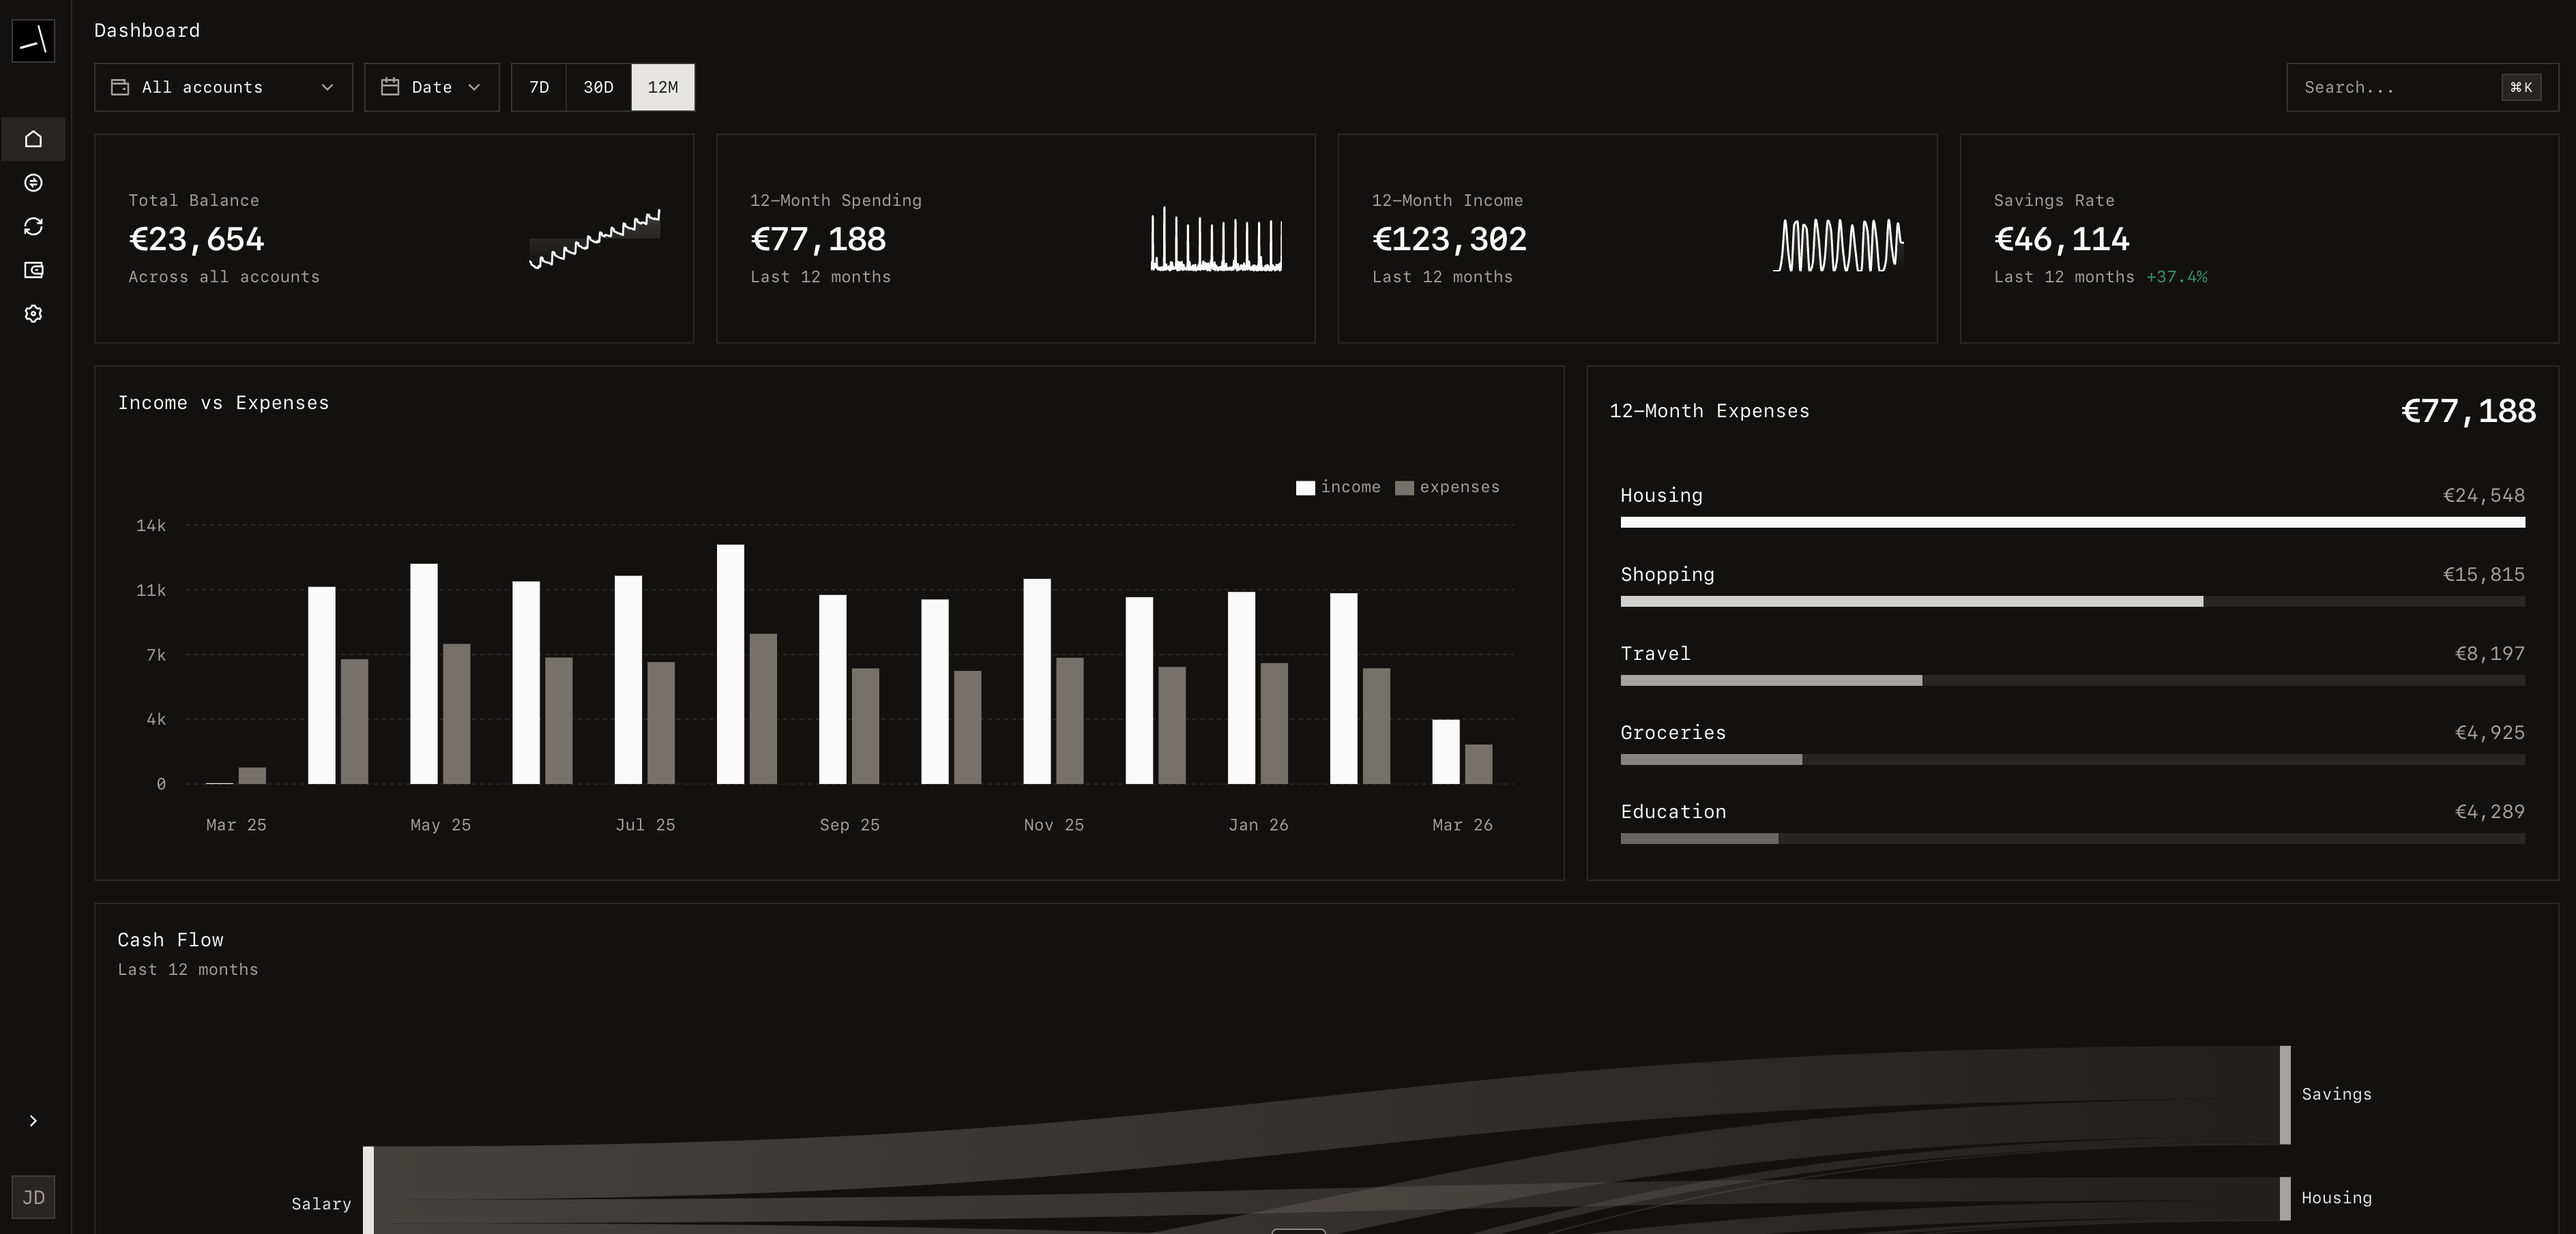
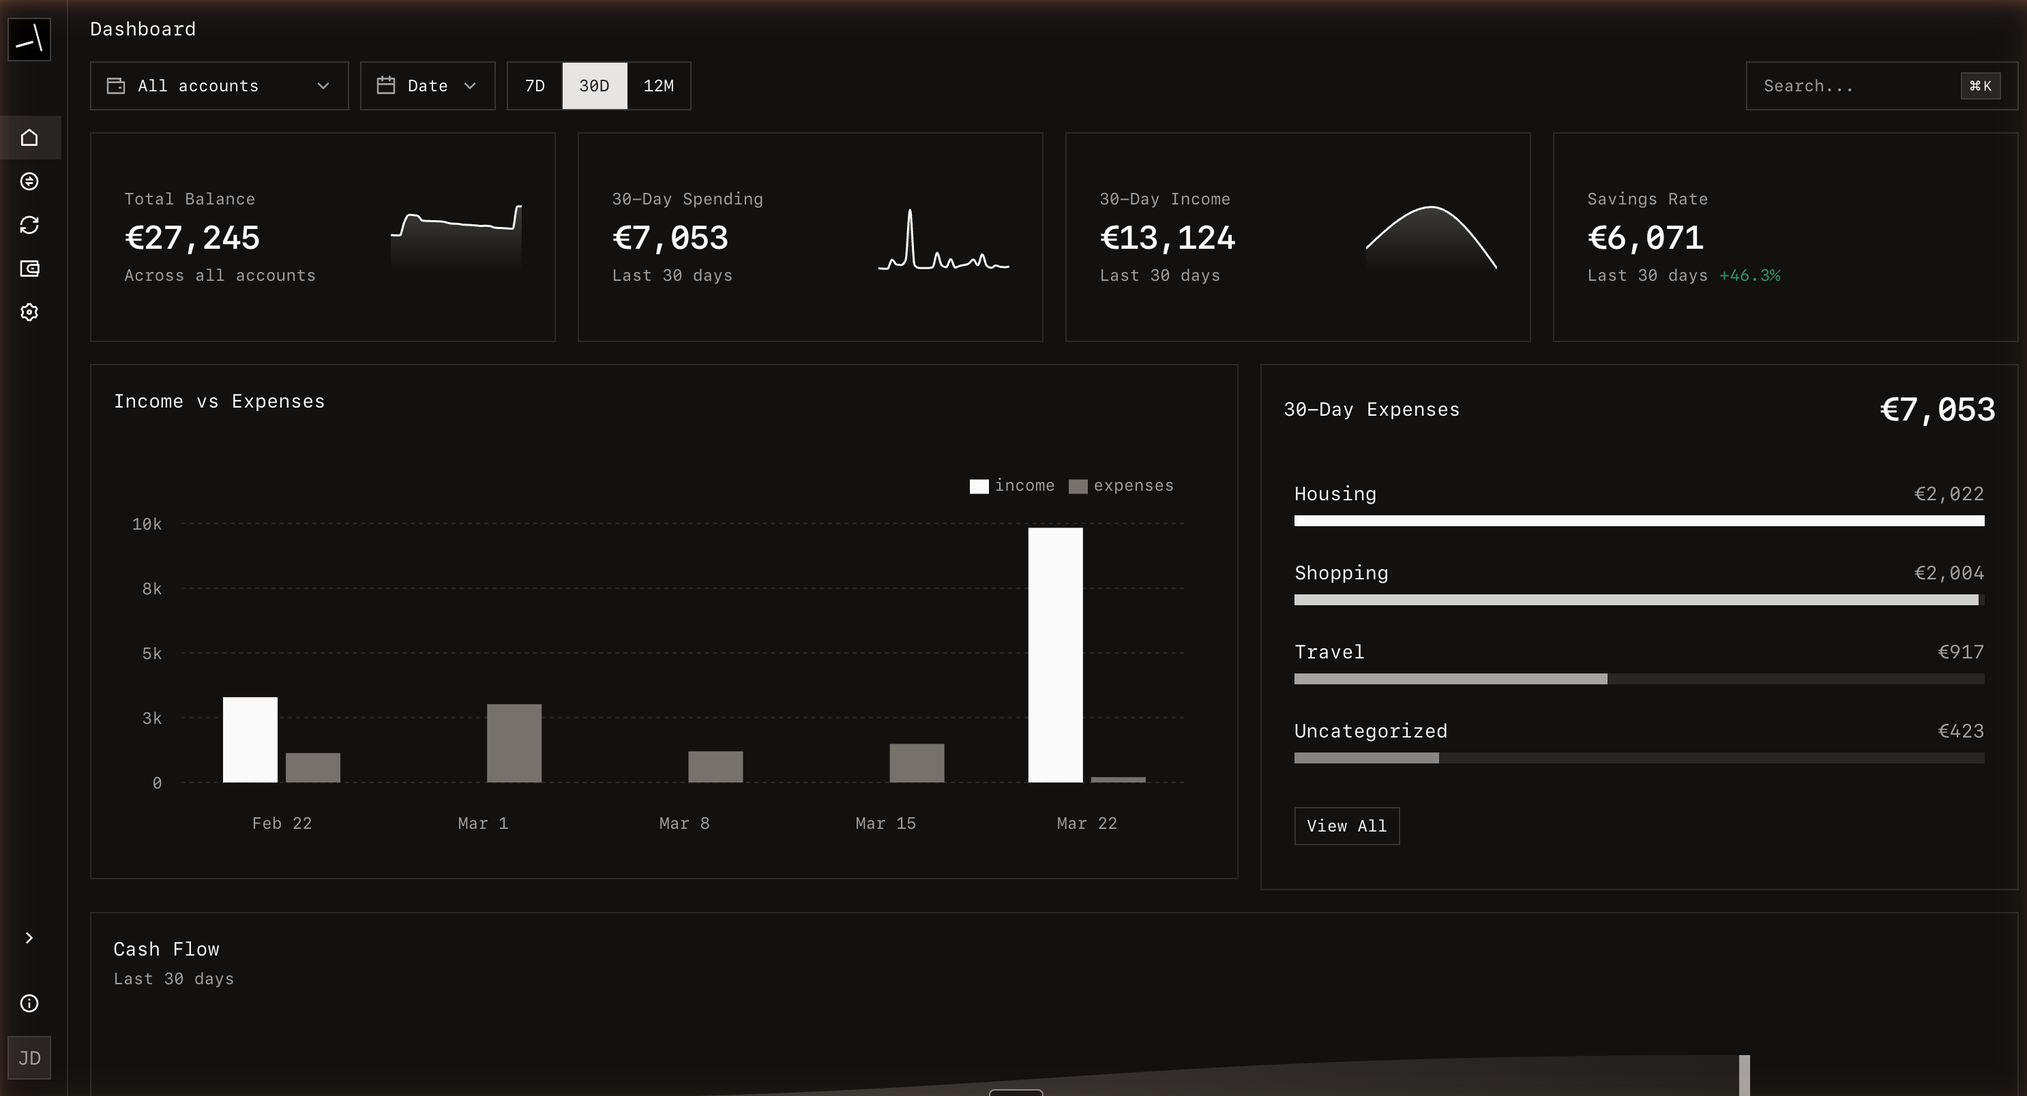
Add feature screenshots to landing page modals
Update all 7 feature cards in the "What Works Today" section with
real app screenshots. Replace the placeholder in the feature modal
with an actual Next.js Image component.

diff --git a/landing/components/work-section.tsx b/landing/components/work-section.tsx
@@ -12,6 +12,7 @@ const FEATURES: Feature[] = [
     detail:
       "Your home base for understanding your money. At a glance you see total income, total expenses, and net savings for any period you choose — a week, a month, or a custom range. A profit & loss chart breaks down the trend over time, while a Sankey flow diagram shows exactly where your money comes from and where it ends up. All numbers update in real time as you import new transactions.",
     wide: true,
+    image: "/images/screenshots/dashboard.png",
   },
   {
     id: "02",
@@ -21,6 +22,7 @@ const FEATURES: Feature[] = [
     detail:
       "Every time you import a transaction, Syllogic reads the description and assigns it a spending category — things like Groceries, Dining, Travel, or Subscriptions — without you lifting a finger. When the AI gets it wrong (it occasionally does), you correct it once and it remembers. Over time the categories get more accurate and reflect your personal spending patterns.",
     wide: false,
+    image: "/images/screenshots/transactions.png",
   },
   {
     id: "03",
@@ -30,6 +32,7 @@ const FEATURES: Feature[] = [
     detail:
       "Syllogic scans your transaction history to find recurring charges — the ones that repeat every month or year at a predictable amount. It groups them by merchant so you can see the full list of your active subscriptions, when they renew, and what your total monthly subscription spend looks like. A surprisingly useful number once you actually see it.",
     wide: false,
+    image: "/images/screenshots/subscriptions.png",
   },
   {
     id: "04",
@@ -39,6 +42,7 @@ const FEATURES: Feature[] = [
     detail:
       "Pick any category — say, Dining — and see exactly how much you spent in it each month for the past year. Compare it to the previous period, see if you're trending up or down, and spot the months where you overspent. A donut chart shows the category breakdown at a glance so you immediately know where the biggest opportunities to cut back are.",
     wide: false,
+    image: "/images/screenshots/spending-category.png",
   },
   {
     id: "05",
@@ -48,6 +52,7 @@ const FEATURES: Feature[] = [
     detail:
       "If you transfer money from your checking account to your savings account, that shows up as both an outgoing and an incoming transaction. Without linking them, your expense totals look inflated. Syllogic lets you mark those two transactions as related so your dashboard counts them correctly — one transfer, not two separate expenses.",
     wide: false,
+    image: "/images/screenshots/transactions_detail.png",
   },
   {
     id: "06",
@@ -57,6 +62,7 @@ const FEATURES: Feature[] = [
     detail:
       "Every bank lets you download your transaction history as a CSV file. Syllogic can import those files regardless of the column format your bank uses — it adapts to the structure automatically. And because your data is yours, you can export everything at any time in a clean, standard format. No lock-in, no strings attached.",
     wide: false,
+    image: "/images/screenshots/csv-import.png",
   },
   {
     id: "07",
@@ -66,6 +72,7 @@ const FEATURES: Feature[] = [
     detail:
       "Syllogic ships a built-in MCP (Model Context Protocol) server that exposes your financial data as tools any compatible AI client can call. Connect Claude Desktop, Cursor, or any other MCP-compatible app and start talking to your finances like you would a spreadsheet — except smarter. The LLM can read transactions, categories, accounts, and balances, then act on them based on your instructions.",
     wide: true,
+    image: "/images/screenshots/mcp-server.png",
     useCases: [
       "\"How much did I spend on dining last month compared to the month before?\"",
       "\"Recategorize all transactions from Amazon as Shopping instead of Other.\"",
@@ -83,17 +90,23 @@ export function WorkSection() {
 
   useEffect(() => {
     let cleanup: (() => void) | undefined;
+    let cancelled = false;
 
     async function initGsap() {
       const { gsap } = await import("gsap");
       const { ScrollTrigger } = await import("gsap/ScrollTrigger");
+
+      if (cancelled) {
+        return;
+      }
+
       gsap.registerPlugin(ScrollTrigger);
 
       const cards =
         sectionRef.current?.querySelectorAll<HTMLElement>(".feature-card");
       if (!cards?.length) return;
 
-      gsap.fromTo(
+      const animation = gsap.fromTo(
         cards,
         { opacity: 0, y: 24 },
         {
@@ -109,11 +122,17 @@ export function WorkSection() {
         }
       );
 
-      cleanup = () => ScrollTrigger.getAll().forEach((t) => t.kill());
+      cleanup = () => {
+        animation.scrollTrigger?.kill();
+        animation.kill();
+      };
     }
 
     initGsap();
-    return () => cleanup?.();
+    return () => {
+      cancelled = true;
+      cleanup?.();
+    };
   }, []);
 
   return (
@@ -126,12 +145,12 @@ export function WorkSection() {
       >
         {/* Section header */}
         <div className="flex items-baseline gap-4 mb-4">
-        <span
-          className="font-mono text-sm"
-          style={{ color: "var(--color-accent)" }}
-        >
+          <span
+            className="font-mono text-sm"
+            style={{ color: "var(--color-accent)" }}
+          >
             04
-        </span>
+          </span>
           <h2
             className="font-display text-5xl"
             style={{ color: "var(--color-fg)" }}

diff --git a/landing/components/feature-modal.tsx b/landing/components/feature-modal.tsx
@@ -1,6 +1,7 @@
 "use client";
 
 import { useEffect, useRef, useState } from "react";
+import Image from "next/image";
 import { createPortal } from "react-dom";
 
 export interface Feature {
@@ -10,6 +11,7 @@ export interface Feature {
   detail: string;
   wide?: boolean;
   useCases?: string[];
+  image?: string;
 }
 
 interface FeatureModalProps {
@@ -90,40 +92,40 @@ export function FeatureModal({ feature, onClose }: FeatureModalProps) {
           </button>
         </div>
 
-        {/* Screenshot placeholder */}
-        <div
-          className="w-full flex flex-col items-center justify-center gap-3"
-          style={{
-            height: "240px",
-            backgroundColor: "rgba(255,255,255,0.015)",
-            borderBottom: "1px solid var(--color-border)",
-          }}
-        >
+        {/* Screenshot */}
+        {feature.image ? (
           <div
-            className="grid grid-cols-3 gap-1 opacity-20"
-            style={{ width: 48 }}
+            className="w-full relative"
+            style={{
+              borderBottom: "1px solid var(--color-border)",
+            }}
           >
-            {Array.from({ length: 9 }).map((_, i) => (
-              <div
-                key={i}
-                className="h-1"
-                style={{ backgroundColor: "var(--color-accent)" }}
-              />
-            ))}
+            <Image
+              src={feature.image}
+              alt={`Screenshot of ${feature.title}`}
+              width={1200}
+              height={675}
+              className="w-full h-auto"
+              style={{ display: "block" }}
+            />
           </div>
-          <span
-            className="font-mono text-xs uppercase tracking-[0.2em]"
-            style={{ color: "var(--color-muted)" }}
+        ) : (
+          <div
+            className="w-full flex flex-col items-center justify-center gap-3"
+            style={{
+              height: "240px",
+              backgroundColor: "rgba(255,255,255,0.015)",
+              borderBottom: "1px solid var(--color-border)",
+            }}
           >
-            Screenshot · {feature.title}
-          </span>
-          <span
-            className="font-mono text-xs"
-            style={{ color: "rgba(90,90,90,0.6)" }}
-          >
-            Add image here
-          </span>
-        </div>
+            <span
+              className="font-mono text-xs uppercase tracking-[0.2em]"
+              style={{ color: "var(--color-muted)" }}
+            >
+              Screenshot · {feature.title}
+            </span>
+          </div>
+        )}
 
         {/* Body */}
         <div className="p-6 space-y-6">
